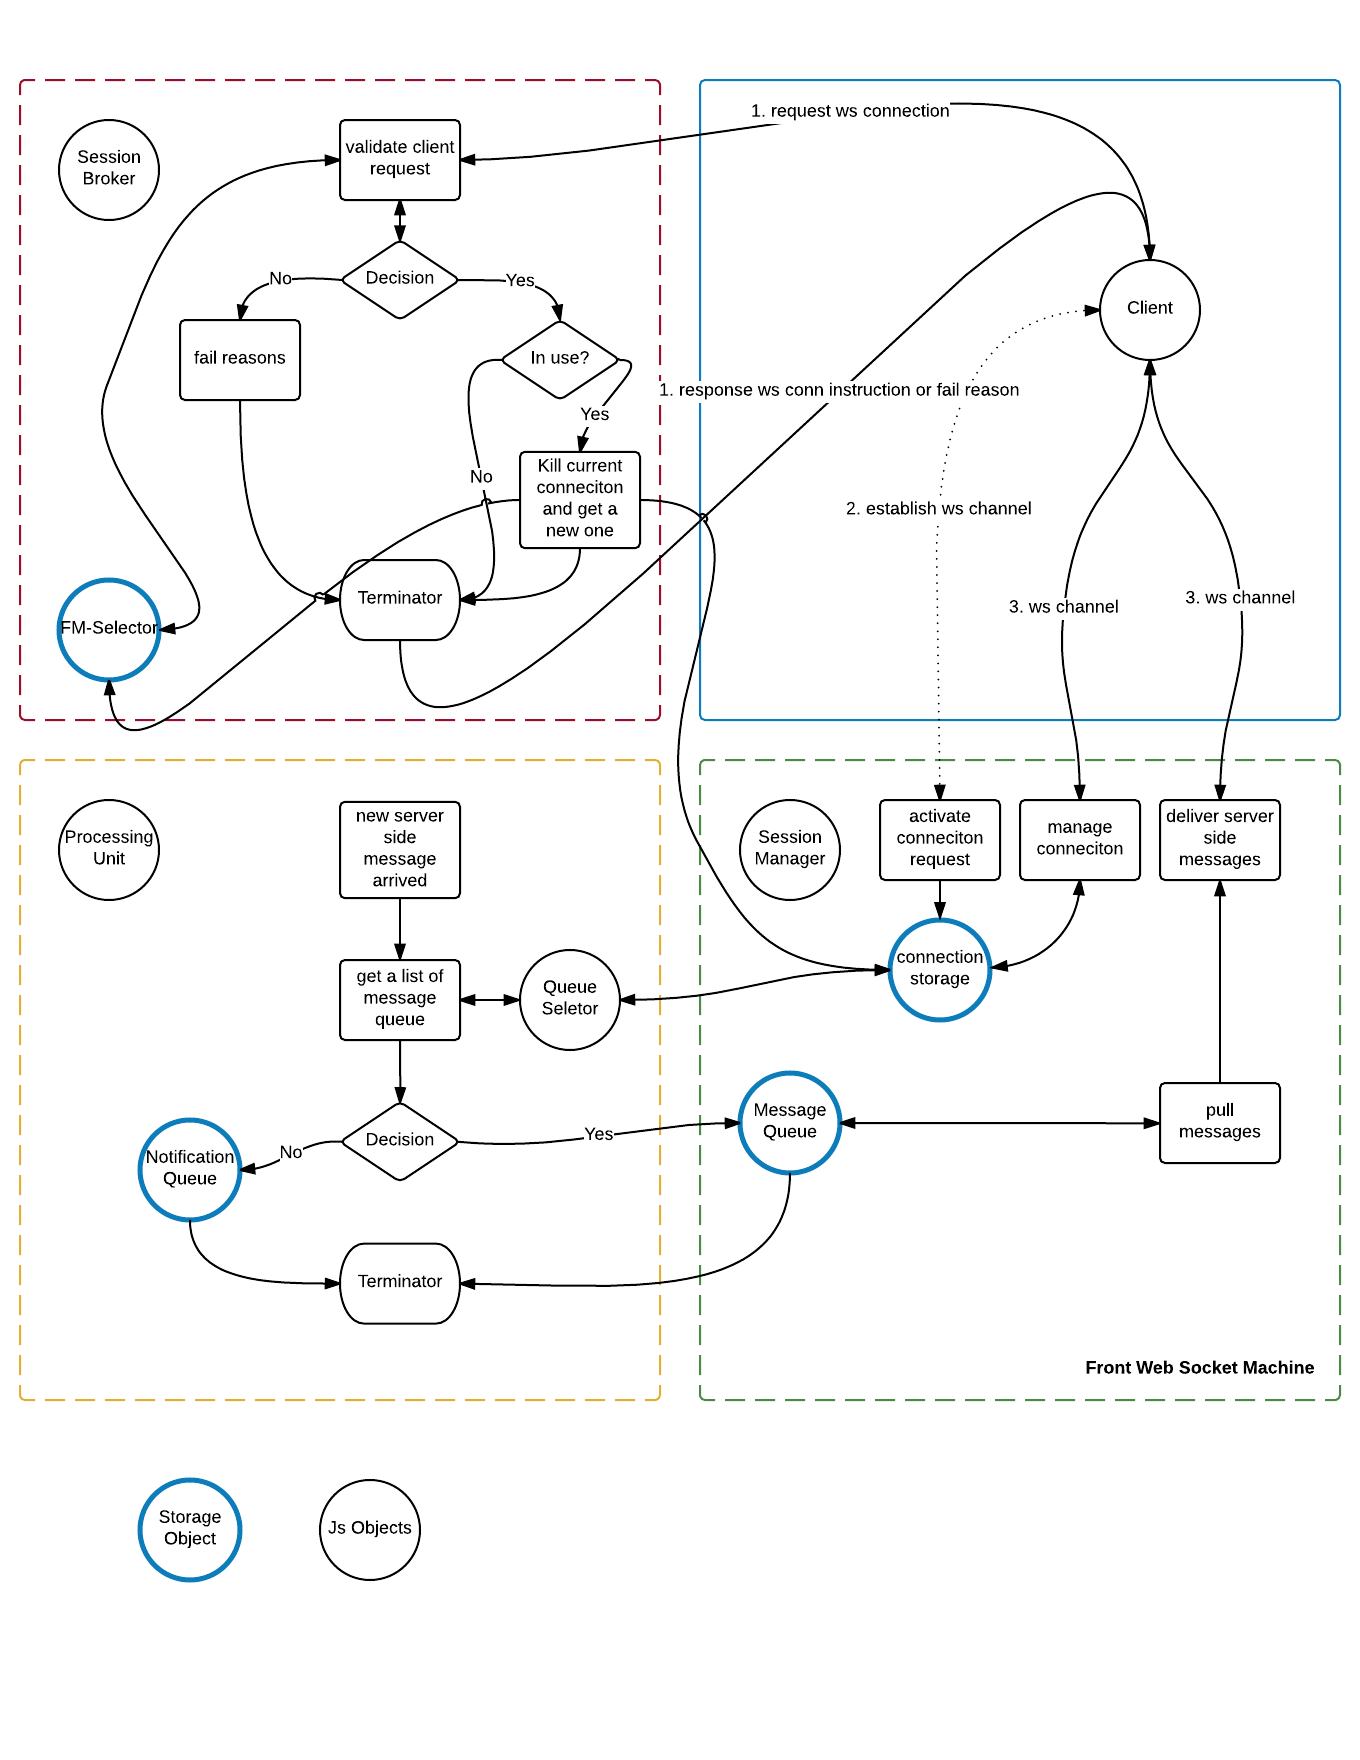
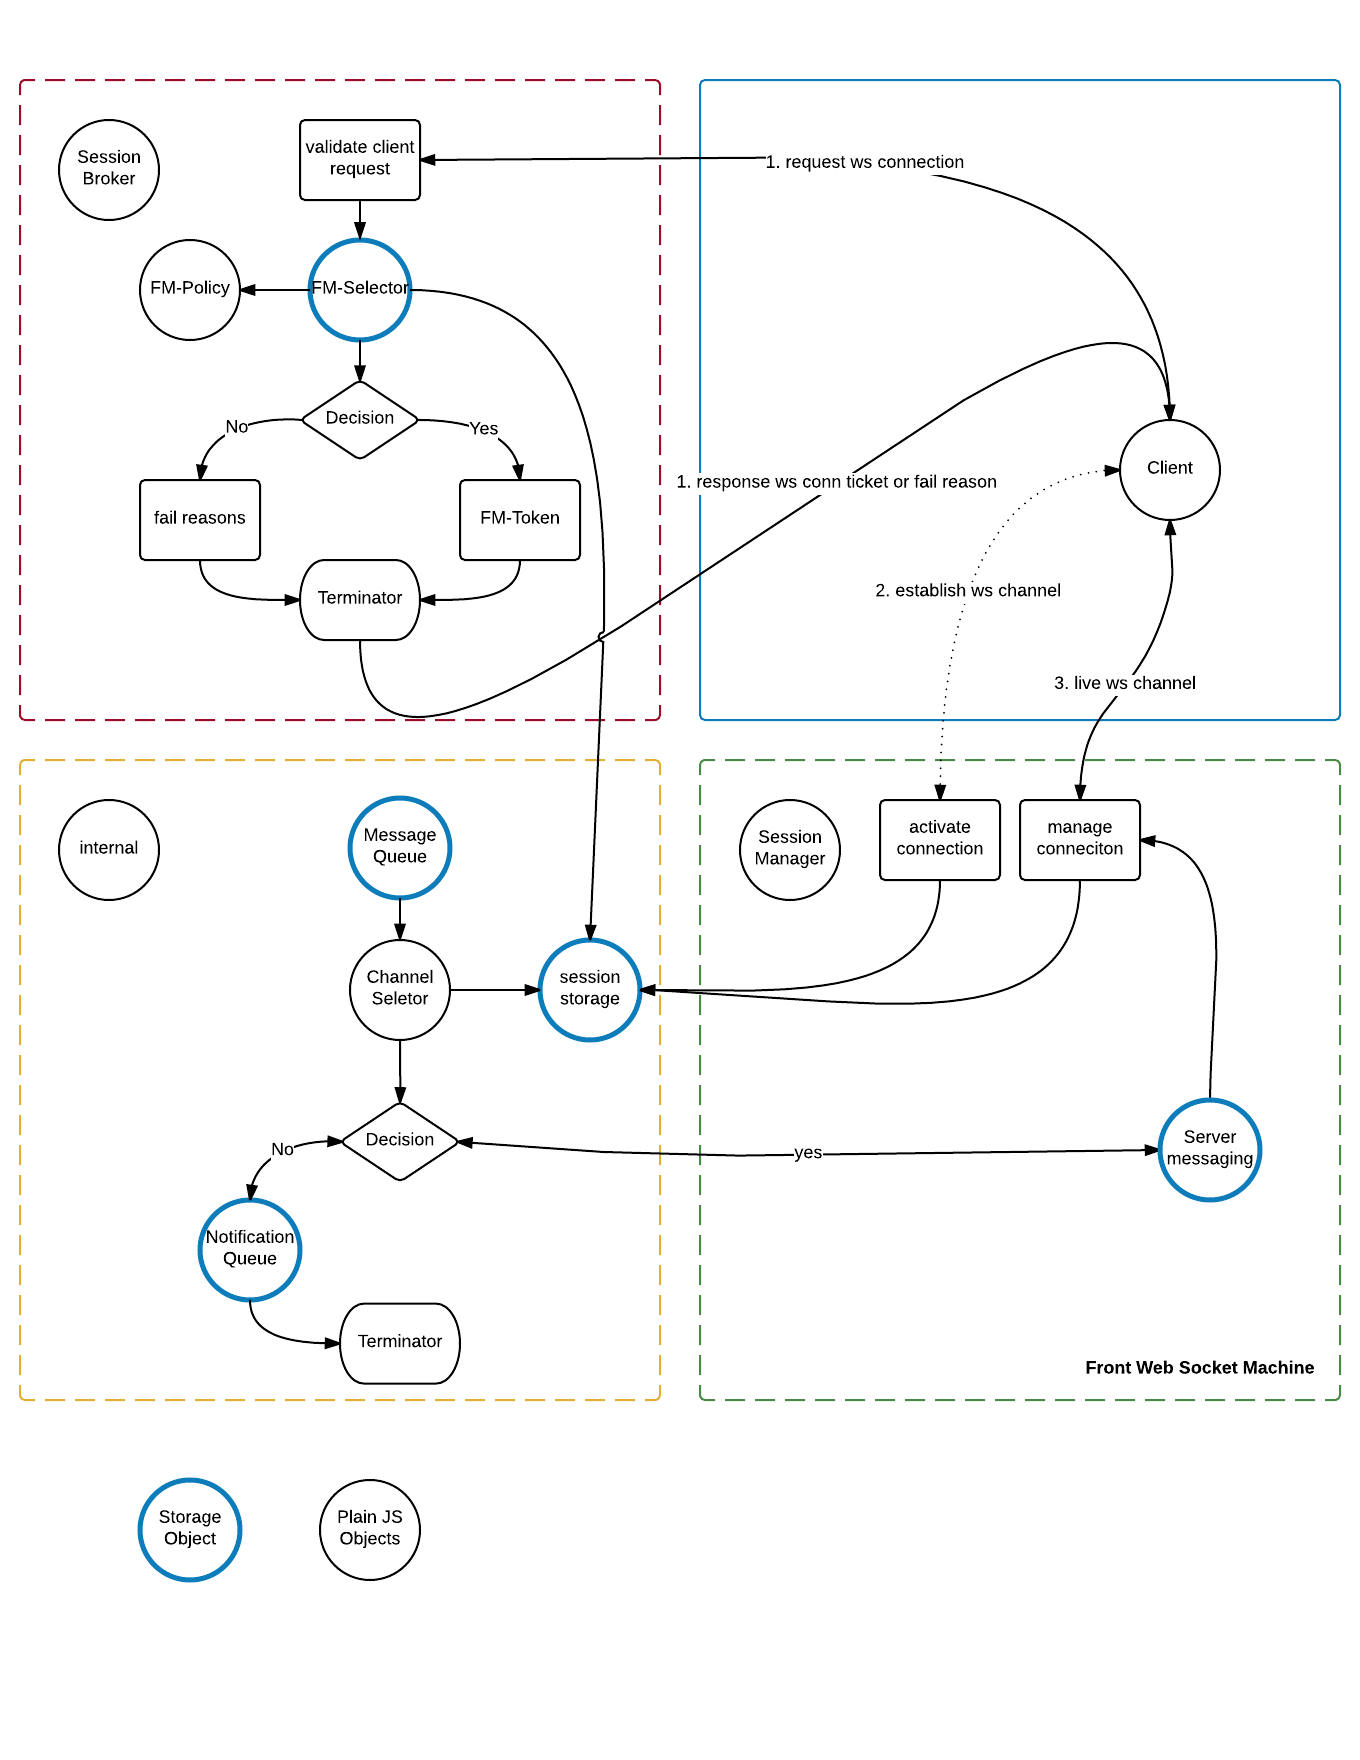
flow updates

diff --git a/examples/msg-prototype/msg-session-broker/src/controllers/ticketController.js b/examples/msg-prototype/msg-session-broker/src/controllers/ticketController.js
@@ -14,7 +14,6 @@ export default {
       // TBD user and conn should be extracted from request
       // TBD validation should be extracted from fm_selector since it's the controller's job
 
-
       req.app.locals.fm_selector.allocate(repo_impl.valid_user, repo_impl.valid_conn).then(
         (ticket) => {
           log.info('new ticket created');

diff --git a/examples/msg-prototype/msg-session-broker/test/fixture/policy_impl.js b/examples/msg-prototype/msg-session-broker/test/fixture/policy_impl.js
@@ -2,6 +2,7 @@
 
 export default {
   fm: {
+    id: 'fm-1',
     ip: '111.111.111.111'
   }
 };

diff --git a/examples/msg-prototype/README.MD b/examples/msg-prototype/README.MD
@@ -1,4 +1,4 @@
-the messaging module prototype design and workflow draft.
+messaging module prototype design and workflow
 
 ![diagram](/examples/msg-prototype/msg-prototyping.png?raw=true "diagram")
 
@@ -42,23 +42,31 @@ there will be N session-managers for a N Front-Machine deployment, one manager f
 
 each front ws machine exposes a public ip for clients to connect to with valid tokens.
 
+each front ws machine has an associated fm id for internal clients to identify it.
+
 a session manager validates session requests by validating token payloads.
 
 a session manager manages ws connections and their corresponding session records.
 
-a session manager connects to a message queue, constantly pulling server side messages and sends to appropriate ws connections.
+a session manager accepts server side messaging requests and delivers them to appropriate ws connections.
 
-a session manager depends on a Front-Machine-Authenticator(FM-Auth for short).
+a session manager depends on a Front-Machine-Authenticator(FM-Auth).
+
+### Some other details
+a session manager init socket.io server.
+* onconnection should perform token based authentication via socket.request.params
+* a token is compute base, should not be stored on server.
+* a token also has timeout settings, and also fm id/ip embeded
+
+after a ws conn is initiated(corresponding session record gets activated)
+* socket id, fm id will be updated to session record
+
+activated session's socket id will be used to identify the ws connection for pushing server messages
+
+activated session's fm id will be used to identify server load by FM-Policy and determine fm-user mappings.
 
 ### FM-Auth
-validate token authenticity of the incoming session requests
+unpackage token payload and validate the authenticity of incoming connections requests
 
-## Process Unit
-upon server side message delivery, the process unit will try to locate a list of proper session manager message queues by querying the queue selector.
-
-the queue selector will look for signs of any live ws connection, and returns a list of session manager message queues; if no live ws connection could be found, a queue for notification is returned instead.
-
-server side messages will be queued up into those message queues.
-
-### Queue Selector
-base on session storage, look for active ws connections, and return a list of session manager message queue identifiers.(base on implementation, it could be just part of process unit's storage operation handling message distribution.)
+## Storage
+keep session records
